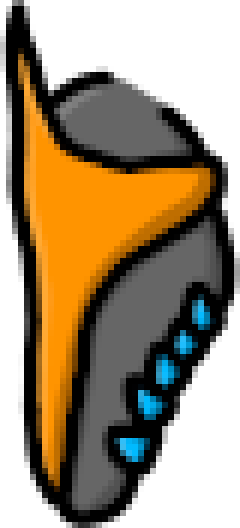
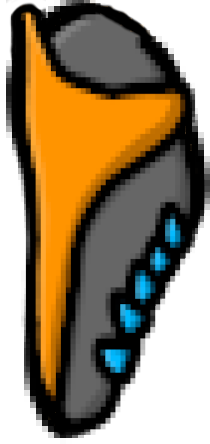
Added armor for character and fixed armor assets

diff --git a/Swords and Sandals/GameManager.cpp b/Swords and Sandals/GameManager.cpp
@@ -6,8 +6,12 @@ GameManager::GameManager() {
 
 void GameManager::run(TextureManager &textureManager) {
     std::unordered_map<std::string, CharacterPart> characterPartsMap = createCharacterPartsMap(textureManager);
-    Character character(characterPartsMap);
+    std::unordered_map<std::string, ArmorPiece> characterArmorPieces = createCharacterArmorPieces(textureManager);
+
+    Character character(characterPartsMap, characterArmorPieces);
+    
     character.assembleBody();
+    character.updateArmorPositions();
 
     while (window.isOpen()) {
         sf::Event event;
@@ -58,4 +62,42 @@ std::unordered_map<std::string, CharacterPart> GameManager::createCharacterParts
     characterPartsMap.insert_or_assign("footRight", characterPartFoot);
 
     return characterPartsMap;
+}
+
+std::unordered_map<std::string, ArmorPiece> GameManager::createCharacterArmorPieces(TextureManager& textureManager) {
+    std::unordered_map<std::string, ArmorPiece> characterArmorPiecesMap;
+
+    ArmorPiece armorPieceHead(textureManager.getTexture("DKAhead"));
+    ArmorPiece armorPieceChest(textureManager.getTexture("DKAchest"));
+    ArmorPiece armorPieceShoulder(textureManager.getTexture("DKAshoulder"));
+    ArmorPiece armorPieceElbow(textureManager.getTexture("DKAelbow"));
+    ArmorPiece armorPieceArm(textureManager.getTexture("DKAarm"));
+    ArmorPiece armorPiecePelvis(textureManager.getTexture("DKApelvis"));
+    ArmorPiece armorPieceThigh(textureManager.getTexture("DKAthigh"));
+    ArmorPiece armorPieceLeg(textureManager.getTexture("DKAleg"));
+    ArmorPiece armorPieceFoot(textureManager.getTexture("DKAfoot"));
+
+    characterArmorPiecesMap.insert_or_assign("head", armorPieceHead);
+    characterArmorPiecesMap.insert_or_assign("chest", armorPieceChest);
+    characterArmorPiecesMap.insert_or_assign("shoulderLeft", armorPieceShoulder);
+    armorPieceShoulder.flipSprite();
+    characterArmorPiecesMap.insert_or_assign("shoulderRight", armorPieceShoulder);
+    characterArmorPiecesMap.insert_or_assign("elbowLeft", armorPieceElbow);
+    armorPieceElbow.flipSprite();
+    characterArmorPiecesMap.insert_or_assign("elbowRight", armorPieceElbow);
+    characterArmorPiecesMap.insert_or_assign("armLeft", armorPieceArm);
+    armorPieceArm.flipSprite();
+    characterArmorPiecesMap.insert_or_assign("armRight", armorPieceArm);
+    characterArmorPiecesMap.insert_or_assign("pelvis", armorPiecePelvis);
+    characterArmorPiecesMap.insert_or_assign("thighLeft", armorPieceThigh);
+    armorPieceThigh.flipSprite();
+    characterArmorPiecesMap.insert_or_assign("thighRight", armorPieceThigh);
+    characterArmorPiecesMap.insert_or_assign("legLeft", armorPieceLeg);
+    armorPieceLeg.flipSprite();
+    characterArmorPiecesMap.insert_or_assign("legRight", armorPieceLeg);
+    characterArmorPiecesMap.insert_or_assign("footLeft", armorPieceFoot);
+    armorPieceFoot.flipSprite();
+    characterArmorPiecesMap.insert_or_assign("footRight", armorPieceFoot);
+
+    return characterArmorPiecesMap;
 }

diff --git a/Swords and Sandals/Character.cpp b/Swords and Sandals/Character.cpp
@@ -1,7 +1,7 @@
 #include "Character.h"
 
-Character::Character(std::unordered_map<std::string, CharacterPart> characterParts) 
-	: characterParts(characterParts) {
+Character::Character(std::unordered_map<std::string, CharacterPart> characterParts, std::unordered_map<std::string, ArmorPiece> armorPieces)
+	: characterParts(characterParts), armorPieces(armorPieces) {
 }
 
 void Character::assembleBody() {
@@ -56,13 +56,22 @@ void Character::assembleBody() {
     characterParts.at("footRight").setPosition(footRightPosition);
 }
 
+void Character::updateArmorPositions() {
+    for (const auto& characterPartPair : characterParts) {
+        const std::string& partKey = characterPartPair.first;
+        if (armorPieces.find(partKey) != armorPieces.end()) {
+            armorPieces.at(partKey).setPosition(characterPartPair.second.getPosition());
+        }
+    }
+}
+
 void Character::display(sf::RenderWindow& window) {
-    std::vector<std::string> const renderOrder = {
+    std::vector<std::string> const renderOrderBody = {
         "chest", "head", "shoulderLeft", "shoulderRight", "elbowLeft", "elbowRight", "armLeft", "armRight", 
         "thighLeft", "thighRight", "pelvis", "legLeft", "legRight", "footLeft", "footRight"
     };
 
-    for (const std::string &partName : renderOrder) {
+    for (const std::string &partName : renderOrderBody) {
         if (characterParts.find(partName) != characterParts.end()) {
             const CharacterPart& part = characterParts.at(partName);
             sf::Sprite sprite = part.getSprite();
@@ -71,5 +80,18 @@ void Character::display(sf::RenderWindow& window) {
         }
     }
 
+    std::vector<std::string> const renderOrderArmor = {
+        "pelvis", "chest", "head", "shoulderLeft", "shoulderRight", "elbowLeft", "elbowRight", "armLeft", "armRight",
+        "thighLeft", "thighRight", "footLeft", "footRight", "legLeft", "legRight"
+    };
+
+    for (const std::string& partName : renderOrderArmor) {
+        if (armorPieces.find(partName) != armorPieces.end()) {
+            const ArmorPiece& part = armorPieces.at(partName);
+            sf::Sprite sprite = part.getSprite();
+            sprite.setPosition(part.getPosition());
+            window.draw(sprite);
+        }
+    }
 }
 

diff --git a/Swords and Sandals/ArmorPiece.cpp b/Swords and Sandals/ArmorPiece.cpp
@@ -1,1 +1,31 @@
 #include "ArmorPiece.h"
+
+
+ArmorPiece::ArmorPiece(const sf::Texture& texture) {
+    scaleX = 0.12f;
+    scaleY = 0.12f;
+
+    sprite.setTexture(texture);
+    sprite.setPosition(200, 200);
+    sprite.setScale(scaleX, scaleY);
+}
+
+sf::Sprite const ArmorPiece::getSprite() const {
+    return sprite;
+}
+
+sf::Vector2f const ArmorPiece::getPosition() const {
+    return position;
+}
+
+sf::FloatRect const ArmorPiece::getSpriteSize() const {
+    return sprite.getGlobalBounds();
+}
+
+void ArmorPiece::setPosition(const sf::Vector2f position) {
+    this->position = position;
+}
+
+void ArmorPiece::flipSprite() {
+    sprite.setScale(-scaleX, scaleY);
+}

diff --git a/Swords and Sandals/Character.h b/Swords and Sandals/Character.h
@@ -11,8 +11,9 @@ private:
 	std::unordered_map<std::string, CharacterPart> characterParts;
 	std::unordered_map<std::string, ArmorPiece> armorPieces;
 public:
-	Character(std::unordered_map<std::string, CharacterPart> characterParts);
+	Character(std::unordered_map<std::string, CharacterPart> characterParts, std::unordered_map<std::string, ArmorPiece> armorPieces);
 	void assembleBody();
+	void updateArmorPositions();
 	void display(sf::RenderWindow& window);
 };
 

diff --git a/Swords and Sandals/ArmorPiece.h b/Swords and Sandals/ArmorPiece.h
@@ -7,6 +7,13 @@ class ArmorPiece
 private:
 	sf::Sprite sprite;
 	sf::Vector2f position;
+	float scaleX, scaleY;
 public:
+	ArmorPiece(const sf::Texture& texture);
+	sf::Sprite const getSprite() const;
+	sf::Vector2f const getPosition() const;
+	sf::FloatRect const getSpriteSize() const;
+	void setPosition(const sf::Vector2f position);
+	void flipSprite();
 };
 

diff --git a/Swords and Sandals/GameManager.h b/Swords and Sandals/GameManager.h
@@ -12,5 +12,6 @@ public:
     GameManager();
     void run(TextureManager& textureManager);
     std::unordered_map<std::string, CharacterPart> createCharacterPartsMap(TextureManager& textureManager);
+    std::unordered_map<std::string, ArmorPiece> createCharacterArmorPieces(TextureManager& textureManager);
 };
 

diff --git a/Swords and Sandals/main.cpp b/Swords and Sandals/main.cpp
@@ -6,6 +6,7 @@ int main() {
     TextureManager textureManager;
 
     textureManager.loadCharacterBodyTextures();
+    textureManager.loadDarkKnightArmor();
 
     gameManager.run(textureManager);
 
